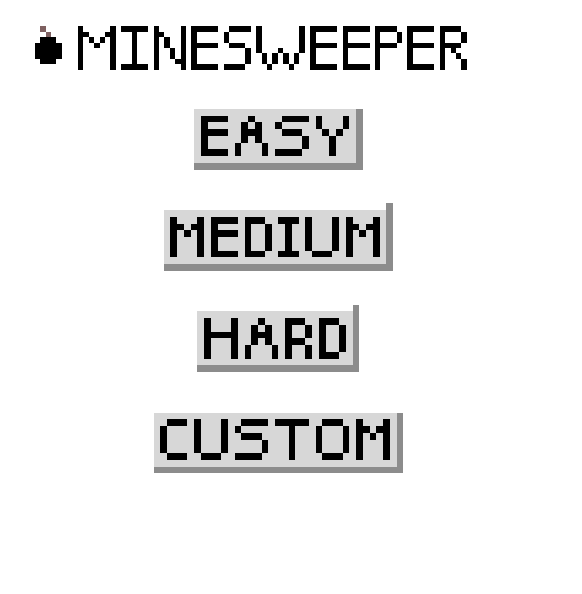
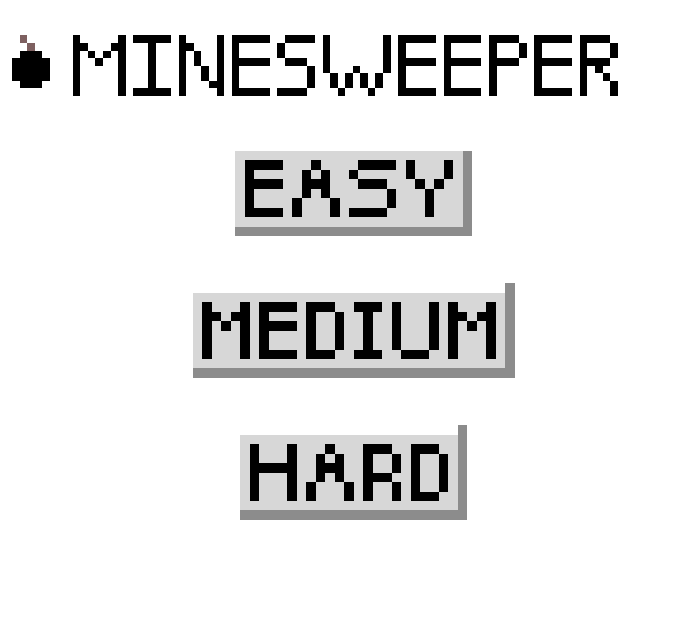
remove custom button

Changed region(s): [[0.2784, 0.1818, 0.7423, 0.6364], [0.0, 0.0303, 0.8969, 0.1515], [0.2474, 0.6667, 0.7113, 0.8182]]

diff --git a/web/src/main-menu.ts b/web/src/main-menu.ts
@@ -34,13 +34,14 @@ export const HARD_BUTTON: Element = {
     interactable: true
 };
 
+/* todo implement custom difficulty
 export const CUSTOM_BUTTON: Element = {
     id: 'menu.main.custom_button',
     sprite: SPRITES.MAIN_MENU.CUSTOM,
     hoveredSprite: pos(SPRITES.MAIN_MENU.CUSTOM_HOVERED),
     scale: 1.25,
-    interactable: false // todo
-};
+    interactable: false
+};*/
 
 // The elements, in order of how they're displayed on screen (top down)
 const ELEMENTS: Array<Element> = [TITLE, EASY_BUTTON, MEDIUM_BUTTON, HARD_BUTTON/*, CUSTOM_BUTTON*/];
